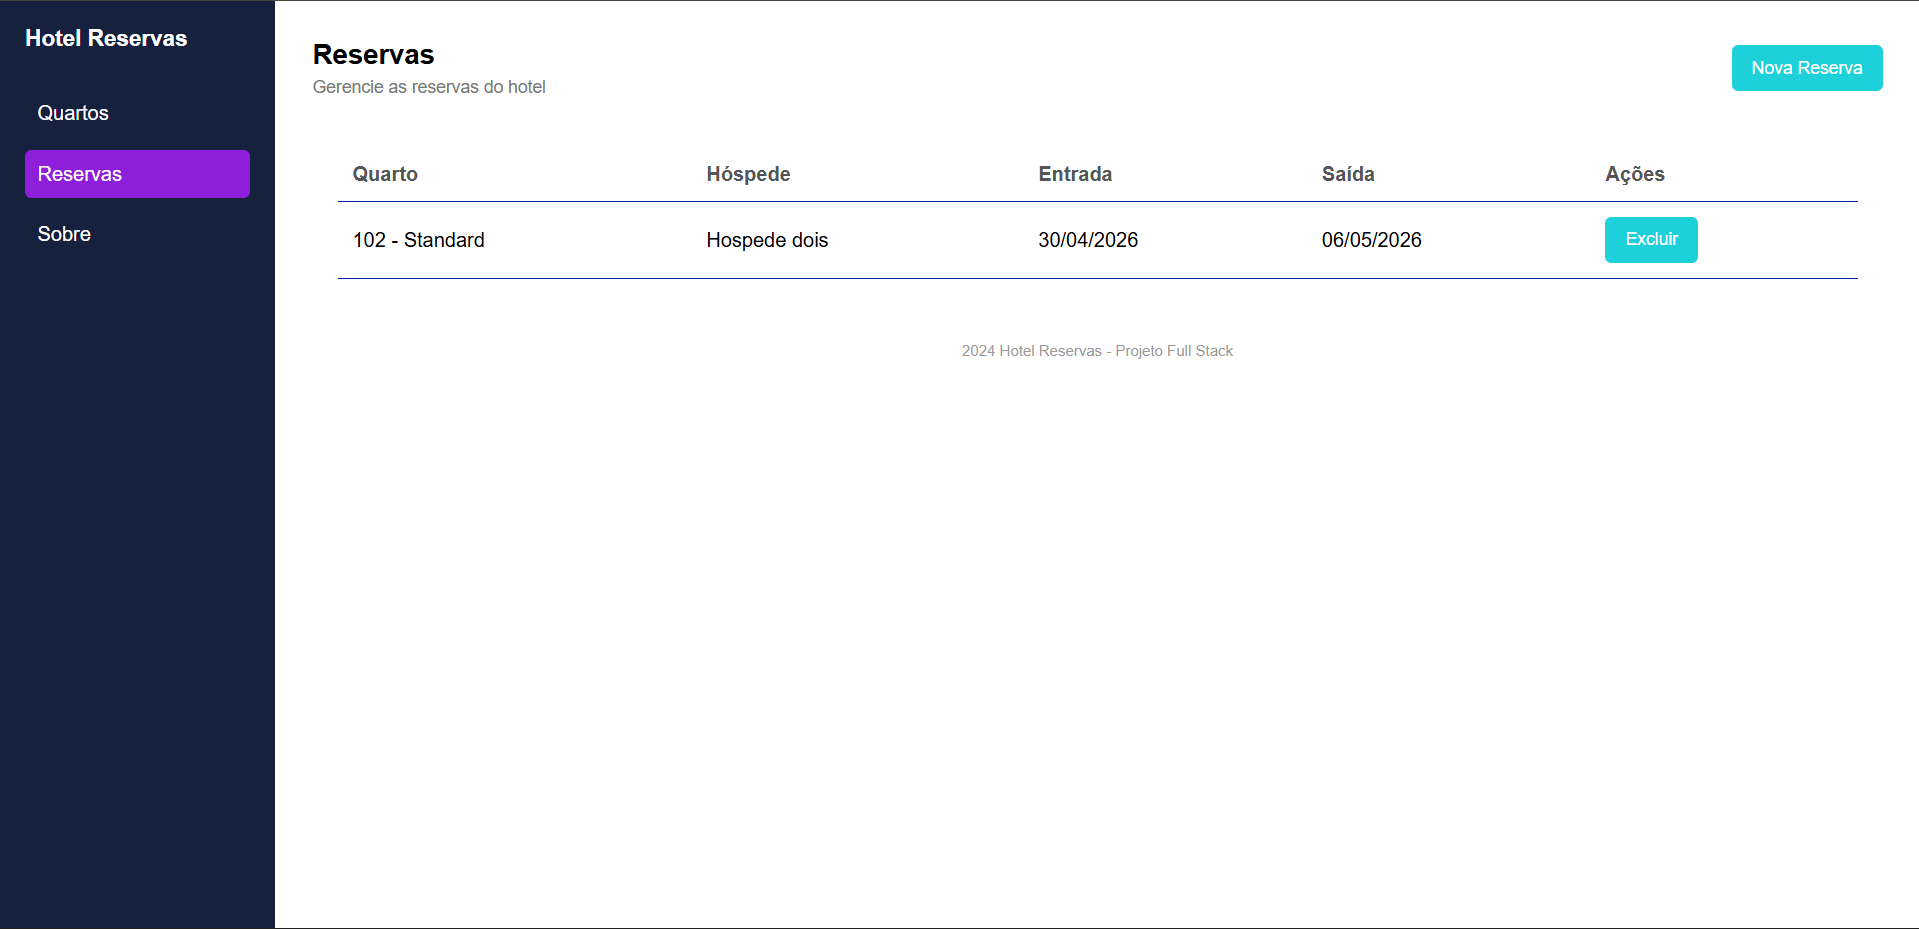
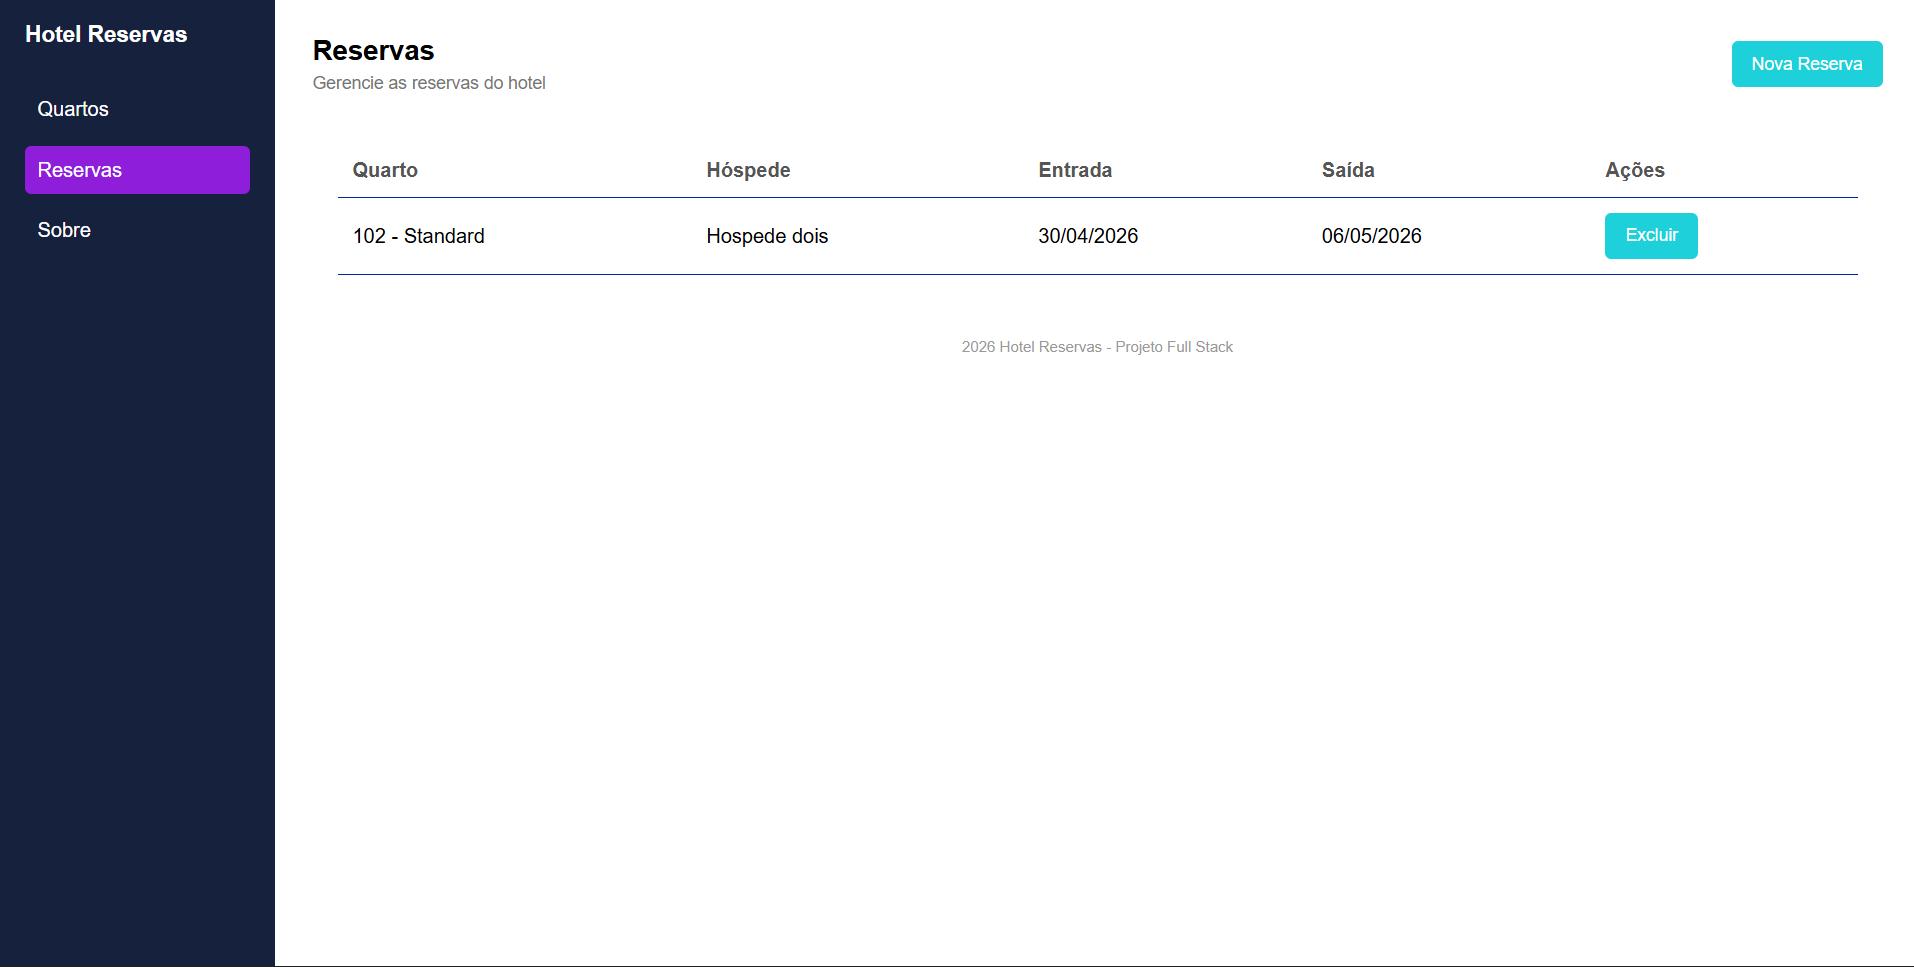
Alterações readme

diff --git a/api/src/data/prisma.js b/api/src/data/prisma.js
@@ -1,5 +1,8 @@
 const { PrismaClient } = require("@prisma/client");
+const { PrismaMariaDb } = require("@prisma/adapter-mariadb");
 
-const prisma = new PrismaClient();
+const adapter = new PrismaMariaDb(process.env.DATABASE_URL);
+const prisma = new PrismaClient({ adapter });
 
 module.exports = prisma;
+

diff --git a/web/reservas.html b/web/reservas.html
@@ -42,7 +42,7 @@
             </table>
         </div>
 
-        <p class="rodape">2024 Hotel Reservas - Projeto Full Stack</p>
+        <p class="rodape">2026 Hotel Reservas - Projeto Full Stack</p>
     </main>
 
     <div id="cadastroReserva" class="fundo-modal oculto">